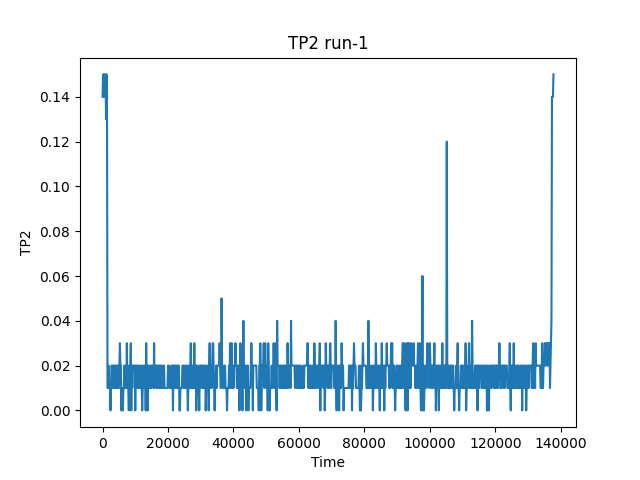
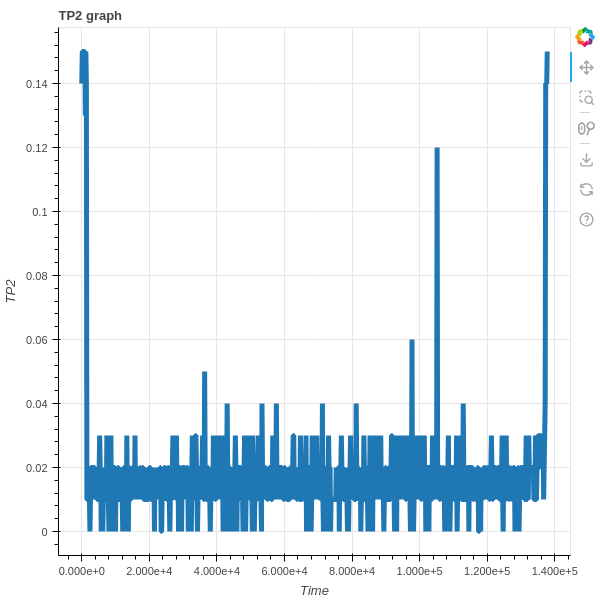
added timestamps

diff --git a/main.py b/main.py
@@ -2,18 +2,41 @@ from bokeh.plotting import figure
 from bokeh.io import export_png
 import pandas as pd
 
+def generate_timestamp(list_x, list_y):
+    x_run_time = []
+    y_run_time = []
+
+    for i in range(len(list_y)):
+        if list_y[i] < 0.10:
+            x_run_time.append(list_x[i])
+            y_run_time.append(list_y[i])
+
+    starting_coordinates = (x_run_time[0], y_run_time[0])
+    finishing_coordinates = (x_run_time[-1], y_run_time[-1])
+
+    return starting_coordinates, finishing_coordinates
+
 def generate_plots(sheet_name, df):
     TP1_list = df['TP1'].tolist()
     TP2_list = df['TP2'].tolist()
     time_list = df.iloc[:, 0].tolist()
     diff_list = df['Diff'].tolist()
 
+    starting_coordinates, finishing_coordinates =  generate_timestamp(time_list, TP1_list)
+
     TP1_graph = figure(title="TP1 graph", x_axis_label='Time', y_axis_label='TP1')
     TP1_graph.line(time_list, TP1_list, line_width=5)
+    TP1_graph.scatter(starting_coordinates[0], starting_coordinates[1], size=10, color='red', legend_label='start')
+    TP1_graph.scatter(finishing_coordinates[0], finishing_coordinates[1], size=10, color='orange', legend_label='finish')
     export_png(TP1_graph, filename=f'graphs/TP1 {sheet_name}.png')
+
+    
+    starting_coordinates, finishing_coordinates =  generate_timestamp(time_list, TP2_list)
 
     TP2_graph = figure(title="TP2 graph", x_axis_label='Time', y_axis_label='TP2')
     TP2_graph.line(time_list, TP2_list, line_width=5)
+    TP2_graph.scatter(starting_coordinates[0], starting_coordinates[1], size=10, color='red', legend_label='start')
+    TP2_graph.scatter(finishing_coordinates[0], finishing_coordinates[1], size=10, color='orange', legend_label='finish')
     export_png(TP2_graph, filename=f'graphs/TP2 {sheet_name}.png')
 
     diff_graph = figure(title="Diff graph", x_axis_label='Time', y_axis_label='Diff')
